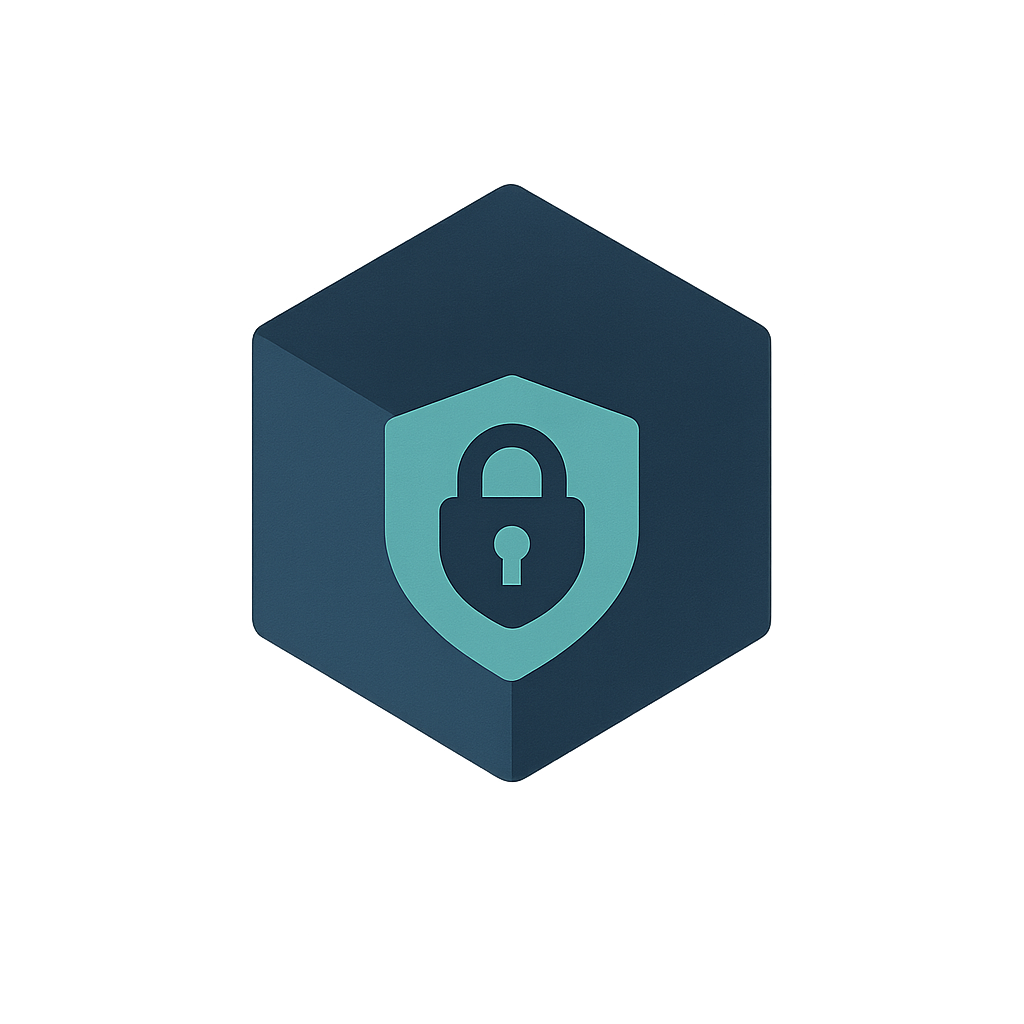
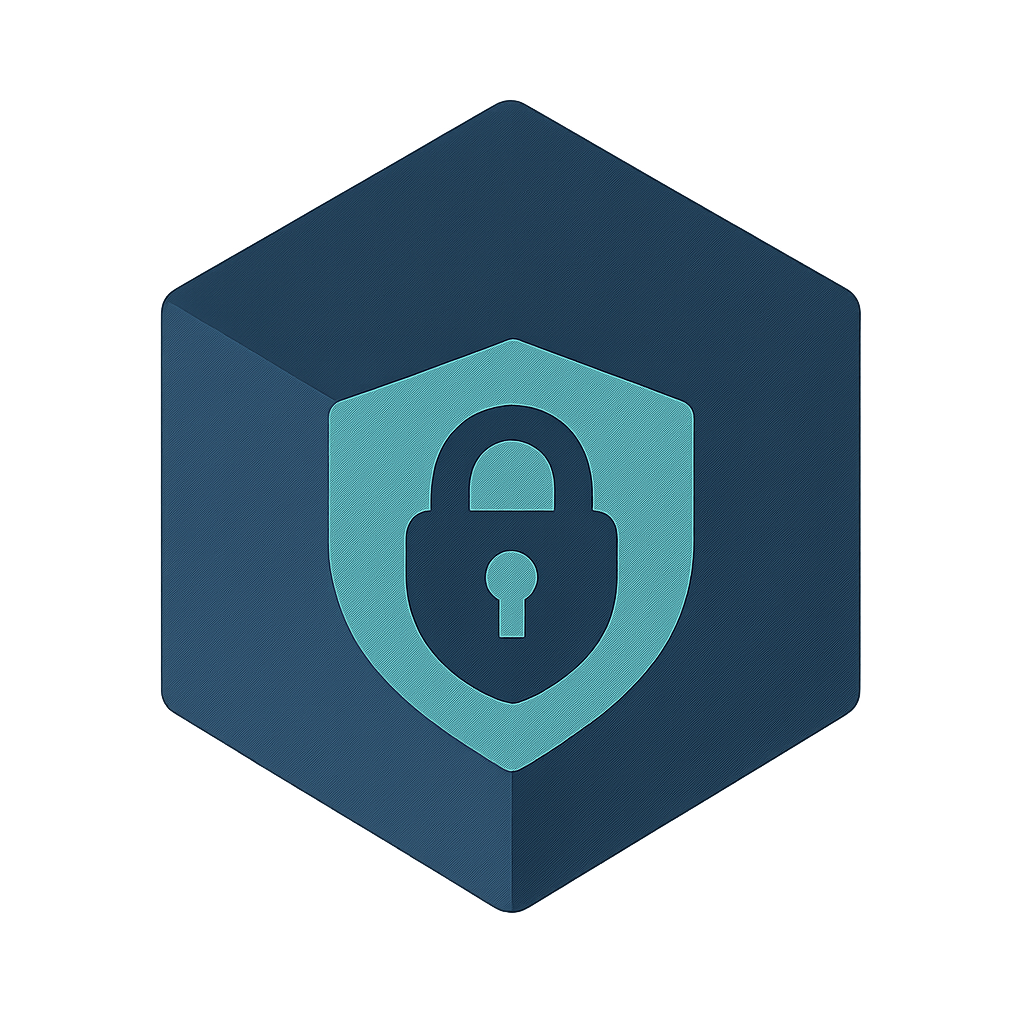
modified:   README.md

Changed region(s): [[0.1562, 0.0938, 0.8438, 0.9062]]

diff --git a/README.md b/README.md
@@ -1,7 +1,7 @@
 # QubeSec
 
 <div align="center">
-  <img src="assets/qubesec.png" alt="QubeSec Logo" width="600" style="clip-path: inset(200px 0 200px 0);">
+  <img src="assets/qubesec.png" alt="QubeSec Logo" width="400">
 </div>
 
 A Kubernetes operator for post-quantum cryptography providing custom resource definitions (CRDs) and controllers for quantum-safe key generation, key encapsulation, key derivation, and certificate management.
